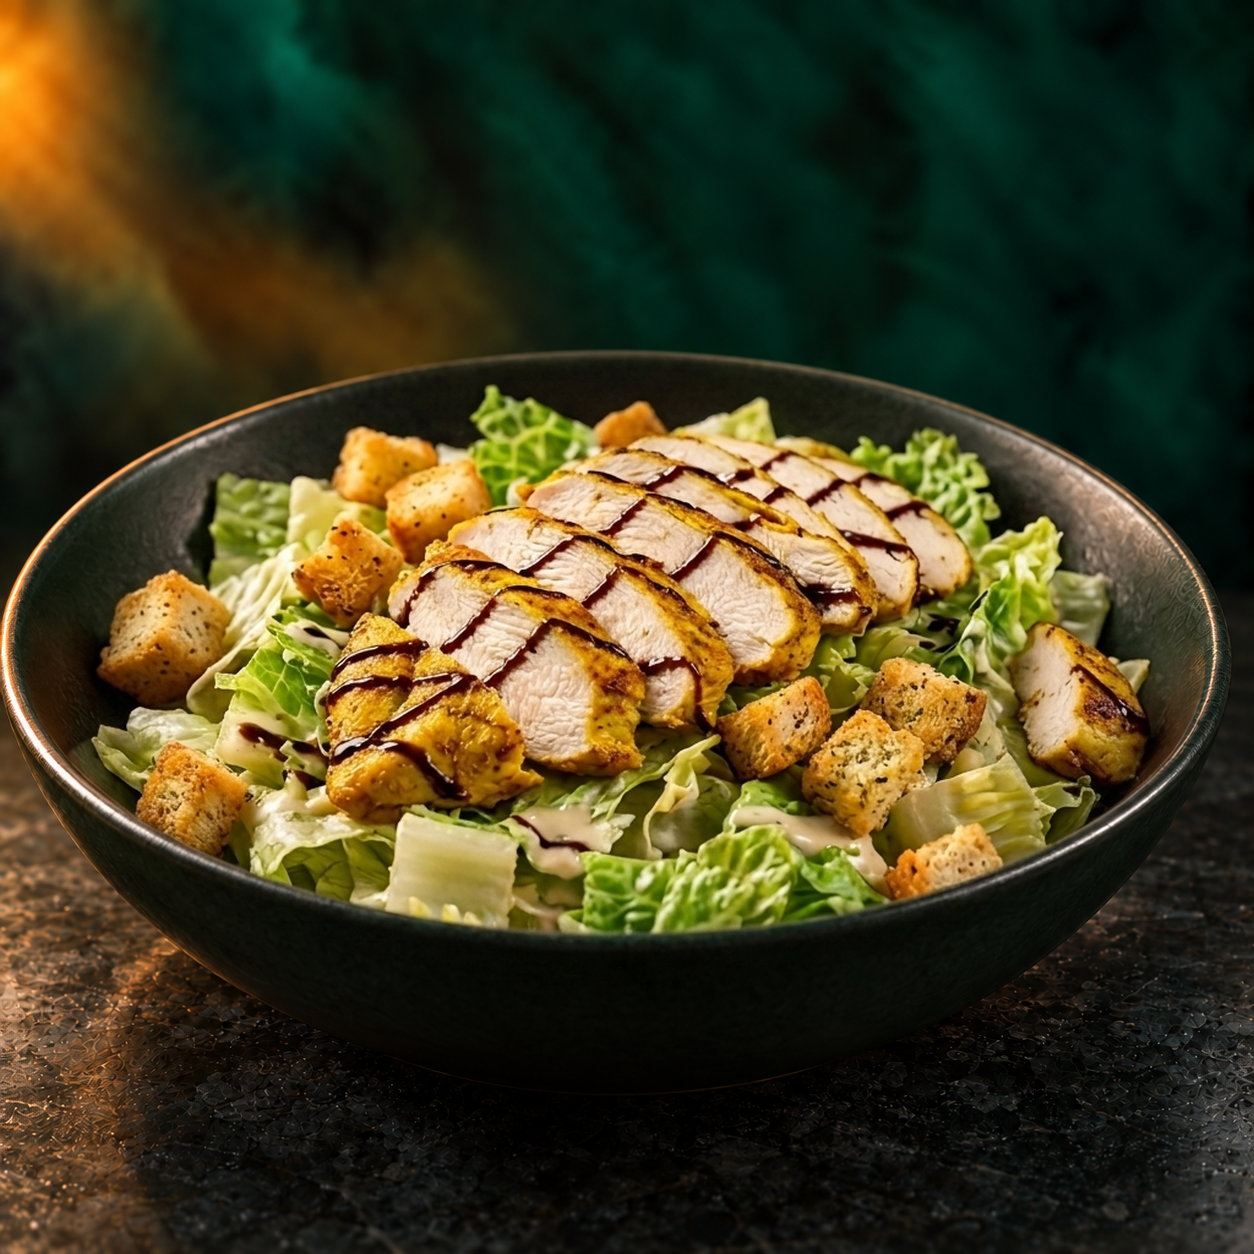
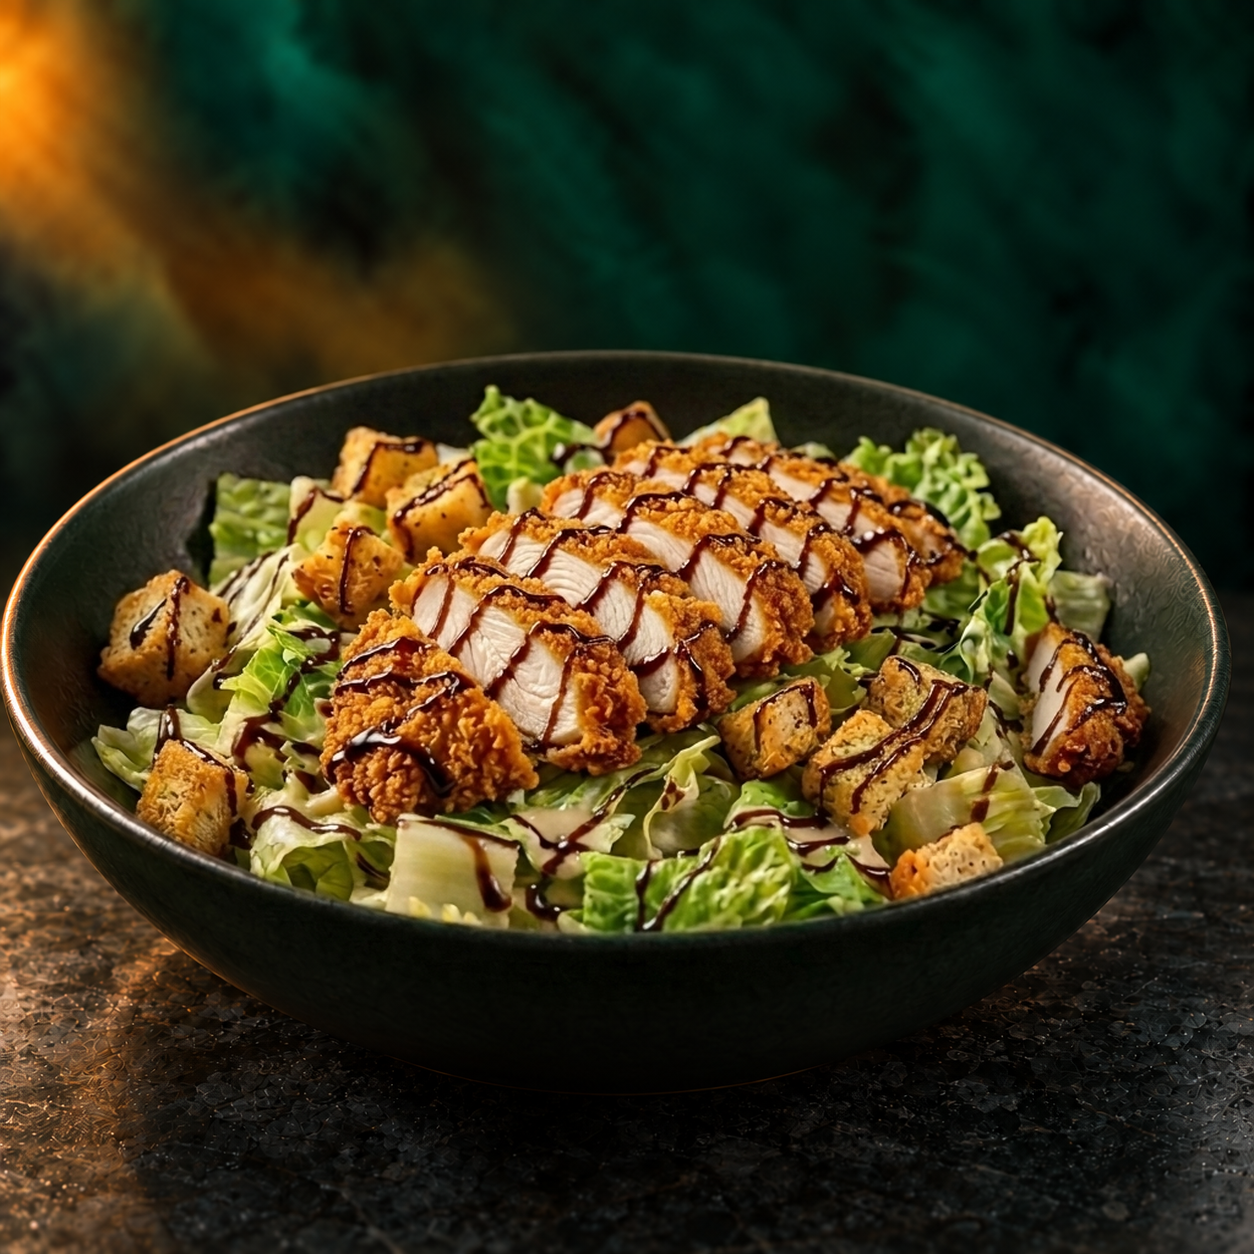
Carte : burgers servis avec frites, panuozzos avec salade ; Sugar Pepperoni sauce tomate à la barbecue ; César au poulet frit, balsamique sur toute l'assiette

Changed region(s): [[0.0933, 0.311, 0.933, 0.7464]]

diff --git a/src/main.ts b/src/main.ts
@@ -5,7 +5,7 @@ import rawMenu from './menu.json';
 import { asset } from './asset';
 
 gsap.registerPlugin(ScrollTrigger);
-interface Dish { id: string; name: string; description: string; extra: string; price: number | null; image: string | null; sourceImage: string | null; allergens: string[] }
+interface Dish { id: string; name: string; description: string; extra: string; served?: string; price: number | null; image: string | null; sourceImage: string | null; allergens: string[] }
 interface Category { id: string; label: string; description: string; source: string; items: Dish[] }
 // Follow a natural meal journey: savoury dishes, dessert, then cold drinks and coffees.
 const DISPLAY_ORDER = ['burger','panuozzo','pizzas','pates','salade','dessert','crepes','boissons-fraiches','boissons-chaudes','mocktail','milkshake','iced-latte','frappuccino'];
@@ -38,7 +38,7 @@ function renderMenu(animate = true) {
   tabs.forEach(tab => { const active = !query && tab.dataset.category === category.id; tab.setAttribute('aria-selected',String(active)); tab.tabIndex = tab.dataset.category === category.id ? 0 : -1; });
   if (query) { panel.removeAttribute('aria-labelledby'); panel.setAttribute('aria-label','Résultats de recherche dans toute la carte'); }
   else { panel.setAttribute('aria-labelledby',`tab-${category.id}`); panel.removeAttribute('aria-label'); }
-  grid.innerHTML = dishes.length ? dishes.map((dish, index) => { const label = menu.find(c => c.items.some(item => item.id === dish.id))!.label; return `<button class="dish-card" data-open="${dish.id}" aria-label="Voir ${escape(dish.name)}${dish.price === null ? '' : `, ${dish.price} euros`}"><div class="dish-frame"><div class="dish-photo">${dish.image ? `<img src="${asset(dish.image)}" alt="${escape(`${dish.name}, ${label.toLowerCase()} du Safe Lounge à Noisy-le-Sec`)}" width="1080" height="1080" loading="${index < 3 ? 'eager' : 'lazy'}" />` : `<div class="no-photo"><img src="${asset('/assets/symbol-lilac.svg')}" alt="" /></div>`}<span class="dish-open">↗</span></div></div><div class="dish-title"><h4>${escape(dish.name)}</h4>${dish.price === null ? '' : `<span>${dish.price}<small>€</small></span>`}</div><p>${escape(dish.description)}</p>${dish.extra ? `<span class="dish-extra">${escape(dish.extra)}</span>` : ''}</button>`; }).join('') : '<div class="no-results"><span>Cette catégorie arrive bientôt.</span><p>Notre équipe finalise cette sélection. En attendant, demandez-nous ce qui est servi sur place.</p></div>';
+  grid.innerHTML = dishes.length ? dishes.map((dish, index) => { const label = menu.find(c => c.items.some(item => item.id === dish.id))!.label; return `<button class="dish-card" data-open="${dish.id}" aria-label="Voir ${escape(dish.name)}${dish.price === null ? '' : `, ${dish.price} euros`}"><div class="dish-frame"><div class="dish-photo">${dish.image ? `<img src="${asset(dish.image)}" alt="${escape(`${dish.name}, ${label.toLowerCase()} du Safe Lounge à Noisy-le-Sec`)}" width="1080" height="1080" loading="${index < 3 ? 'eager' : 'lazy'}" />` : `<div class="no-photo"><img src="${asset('/assets/symbol-lilac.svg')}" alt="" /></div>`}<span class="dish-open">↗</span></div></div><div class="dish-title"><h4>${escape(dish.name)}</h4>${dish.price === null ? '' : `<span>${dish.price}<small>€</small></span>`}</div><p>${escape(dish.description)}</p>${dish.served ? `<span class="dish-served">${escape(dish.served)}</span>` : ''}${dish.extra ? `<span class="dish-extra">${escape(dish.extra)}</span>` : ''}</button>`; }).join('') : '<div class="no-results"><span>Cette catégorie arrive bientôt.</span><p>Notre équipe finalise cette sélection. En attendant, demandez-nous ce qui est servi sur place.</p></div>';
   if (animate && canAnimate()) gsap.fromTo('.dish-card',{y:24,opacity:0},{y:0,opacity:1,duration:.45,stagger:.045,ease:'power2.out',clearProps:'transform,opacity'});
   requestAnimationFrame(() => ScrollTrigger.refresh());
 }
@@ -109,7 +109,7 @@ function openDish(id: string, byPointer = false) {
   const dish = allDishes.find(dish => dish.id === id);
   if (!dish) return;
   const category = menu.find(category => category.id === dish.category)!;
-  $('#dialog-content').innerHTML = `${dish.image ? `<img class="dialog-photo" src="${asset(dish.image)}" alt="${escape(`${dish.name}, ${category.label.toLowerCase()} du Safe Lounge`)}" width="1080" height="1080" />` : `<div class="dialog-photo no-photo"><img src="${asset('/assets/symbol-lilac.svg')}" alt="" /></div>`}<div class="dialog-copy"><p class="eyebrow">${escape(category.label)}</p><h2 id="dialog-title">${escape(dish.name)}</h2>${dish.price === null ? '' : `<strong class="dialog-price">${dish.price} €</strong>`}<p>${escape(dish.description)}</p>${dish.extra ? `<p class="dialog-extra">${escape(dish.extra)}</p>` : ''}<div class="dialog-allergens"><h3>Allergènes</h3>${dish.allergens.length ? `<ul>${dish.allergens.map(allergen => `<li>${escape(allergen)}</li>`).join('')}</ul>` : '<p>Aucun des 14 allergènes majeurs.</p>'}</div><div class="dialog-footer">D’après nos recettes. Tout est préparé dans la même cuisine : des traces restent possibles. Une allergie ? Signalez-la avant de commander.</div></div>`;
+  $('#dialog-content').innerHTML = `${dish.image ? `<img class="dialog-photo" src="${asset(dish.image)}" alt="${escape(`${dish.name}, ${category.label.toLowerCase()} du Safe Lounge`)}" width="1080" height="1080" />` : `<div class="dialog-photo no-photo"><img src="${asset('/assets/symbol-lilac.svg')}" alt="" /></div>`}<div class="dialog-copy"><p class="eyebrow">${escape(category.label)}</p><h2 id="dialog-title">${escape(dish.name)}</h2>${dish.price === null ? '' : `<strong class="dialog-price">${dish.price} €</strong>`}<p>${escape(dish.description)}</p>${dish.served ? `<p class="dialog-served">${escape(dish.served)}</p>` : ''}${dish.extra ? `<p class="dialog-extra">${escape(dish.extra)}</p>` : ''}<div class="dialog-allergens"><h3>Allergènes</h3>${dish.allergens.length ? `<ul>${dish.allergens.map(allergen => `<li>${escape(allergen)}</li>`).join('')}</ul>` : '<p>Aucun des 14 allergènes majeurs.</p>'}</div><div class="dialog-footer">D’après nos recettes. Tout est préparé dans la même cuisine : des traces restent possibles. Une allergie ? Signalez-la avant de commander.</div></div>`;
   dialog.showModal(); document.body.classList.add('dialog-open');
   if (canAnimate()) gsap.fromTo(dialog,{opacity:0,y:20,scale:.97},{opacity:1,y:0,scale:1,duration:.3,clearProps:'all'});
 }

diff --git a/tests/site.spec.ts b/tests/site.spec.ts
@@ -48,7 +48,7 @@ const dishes: { id: string; tab?: string; name: string; has: string[]; hasNot?: 
   { id: 'pizzas-pizz-arabia', tab: 'pizzas', name: 'Pizz’Arabia', has: ['merguez', 'poivrons rouges et verts', 'œuf', 'oignons confits'], hasNot: ['sauce basilic'] },
   { id: 'pizzas-ranch', tab: 'pizzas', name: 'Ranch’', has: ['sauce barbecue', 'poivrons rouges et verts', 'poulet', 'chorizo', 'crème', 'oignons confits', 'cheddar'], hasNot: ['sauce tomate'] },
   { id: 'pizzas-rosalia', tab: 'pizzas', name: 'Rosalia', has: ['sauce tomate', 'mozzarella', 'champignons', 'poulet', 'merguez artisanale', 'crème'], hasNot: ['oignons confits', 'sauce basilic'] },
-  { id: 'pizzas-sugar-pepperoni', tab: 'pizzas', name: 'Sugar Pepperoni', has: ['sauce tomate', 'sauce barbecue', 'mozzarella', 'pepperoni'], hasNot: ['oignons', 'sauce basilic'] },
+  { id: 'pizzas-sugar-pepperoni', tab: 'pizzas', name: 'Sugar Pepperoni', has: ['sauce tomate à la barbecue', 'mozzarella', 'pepperoni'], hasNot: ['oignons', 'sauce basilic'] },
   { id: 'pizzas-tartuffe-mafia', tab: 'pizzas', name: 'Tartuffe Mafia', has: ['crème truffée', 'champignons', 'stracciatella', 'tomates cerises', 'copeaux de parmesan', 'sauce basilic', 'crème balsamique'], hasNot: ['mozzarella', 'sauce tomate'] },
   { id: 'pizzas-tutti-formaggi', tab: 'pizzas', name: 'Tutti Formaggi', has: ['sauce tomate', 'mozzarella', 'chèvre', 'gorgonzola', 'copeaux de parmesan'], hasNot: ['viande', 'champignons'] },
   { id: 'pizzas-vieille-fermiere', tab: 'pizzas', name: 'Vieille Fermière', has: ['base crème', 'mozzarella', 'poulet', 'champignons', 'oignons confits'], hasNot: ['sauce tomate'] },
@@ -116,6 +116,16 @@ for (const dish of dishes) {
     else await expect(card.locator('.dish-title > span')).toHaveText(`${price}€`);
   });
 }
+
+test('les burgers sont servis avec des frites et les panuozzos avec une salade', async ({ page }) => {
+  await page.goto('/#carte');
+  await expect(page.locator('.dish-card[data-open="burger-classic-smash"] .dish-served')).toHaveText('Servi avec des frites');
+  await expect(page.locator('.dish-card[data-open^="burger-"] .dish-served')).toHaveCount(8);
+  await page.locator('#tab-panuozzo').click();
+  await expect(page.locator('.dish-card[data-open^="panuozzo-"] .dish-served')).toHaveCount(3);
+  await page.locator('.dish-card[data-open="panuozzo-verde"]').click();
+  await expect(page.getByRole('dialog').locator('.dialog-served')).toHaveText('Servi avec une salade');
+});
 
 test('les prix de Bilal et les suppléments des smash burgers s’affichent', async ({ page }) => {
   await page.goto('/#carte');

diff --git a/src/style.css b/src/style.css
@@ -103,6 +103,8 @@ h1 .italic{font-family:Fraunces,serif;font-style:italic;font-size:1.05em;font-we
 .dish-title>span{font-family:Fraunces,serif;font-size:26px;font-weight:500;white-space:nowrap;line-height:1}
 .dish-title small{font-family:Satoshi,sans-serif;font-size:12px;margin-left:3px}
 .dish-card>p{font-size:14px;line-height:1.75;color:#625b61;margin-top:10px}
+.dish-served{display:inline-block;margin-top:10px;font-size:11px;font-weight:650;letter-spacing:1.2px;text-transform:uppercase;color:var(--jade)}
+.dish-served+.dish-extra{margin-top:6px}
 .dish-extra{display:block;font-size:13px;margin-top:10px;color:var(--green)}
 .menu-service{display:flex;justify-content:space-between;gap:20px;border-top:1px solid #150b1925;margin-top:35px;padding-top:20px;font-size:13px;color:#625b61;line-height:1.6}
 .menu-service a{white-space:nowrap;color:var(--ink);border-bottom:1px solid #150b1940}
@@ -199,6 +201,7 @@ footer>span{color:#625b61}
 .dialog-copy h2{font-size:39px;margin-top:25px;line-height:1.1}
 .dialog-price{font-family:Fraunces,serif;font-size:35px;font-weight:400;margin:18px 0}
 .dialog-copy>p:not(.eyebrow){font-size:16px;line-height:1.8;color:#625b61}
+.dialog-copy .dialog-served{margin-top:12px;font-size:12px!important;font-weight:650;letter-spacing:1.2px;text-transform:uppercase;color:var(--green)!important}
 .dialog-copy .dialog-extra{margin-top:14px;color:var(--green)!important}
 .dialog-footer{border-top:1px solid #150b1930;margin-top:auto;padding-top:25px;font-size:13px;line-height:1.8}
 .dialog-allergens{margin:22px 0 26px}
